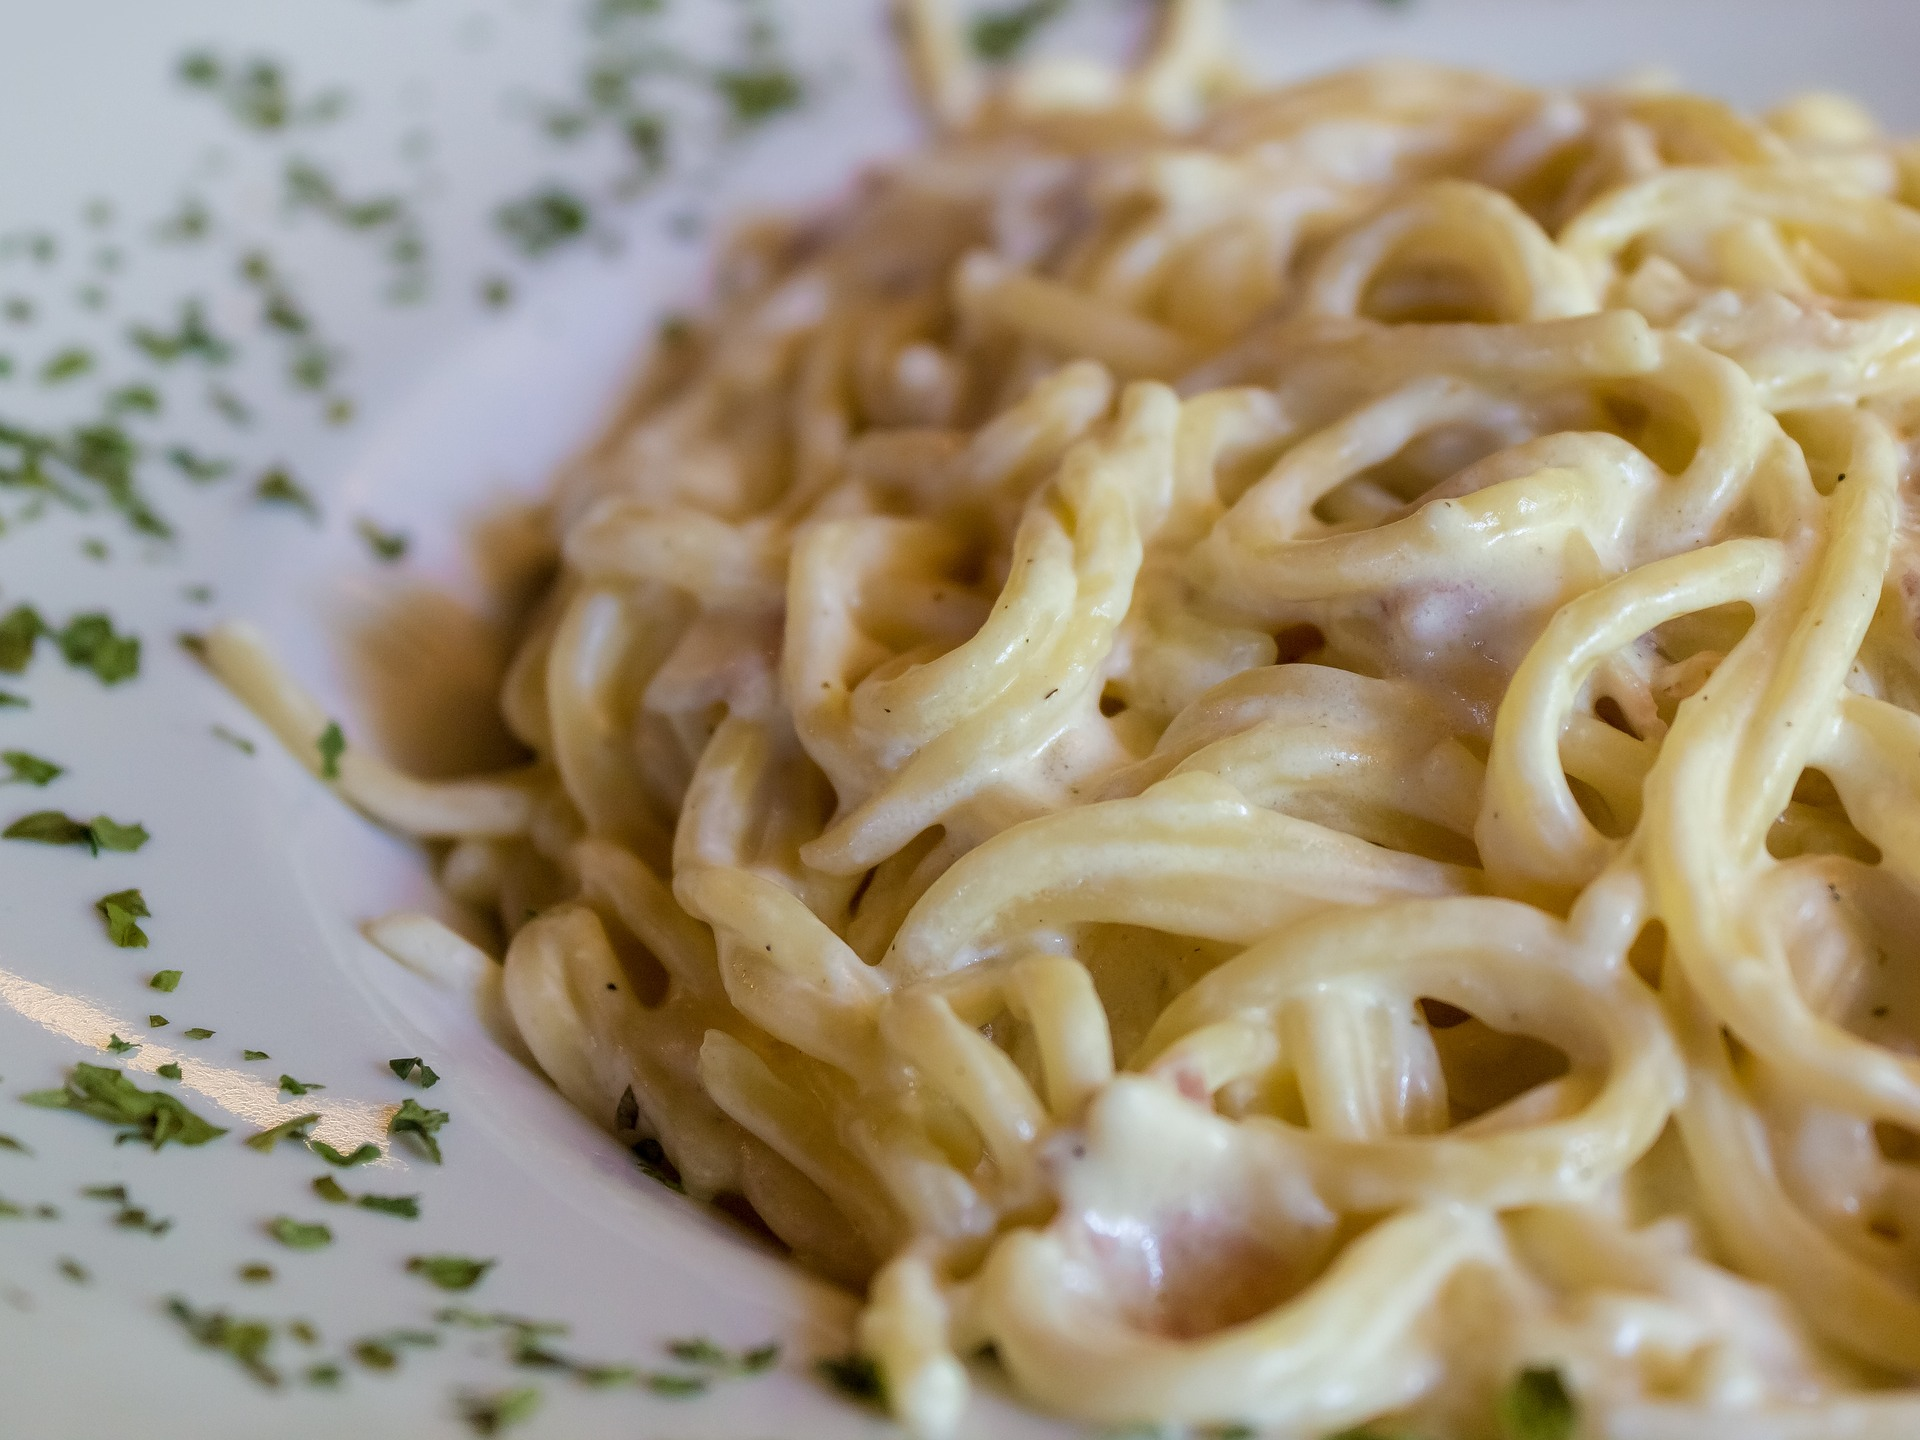
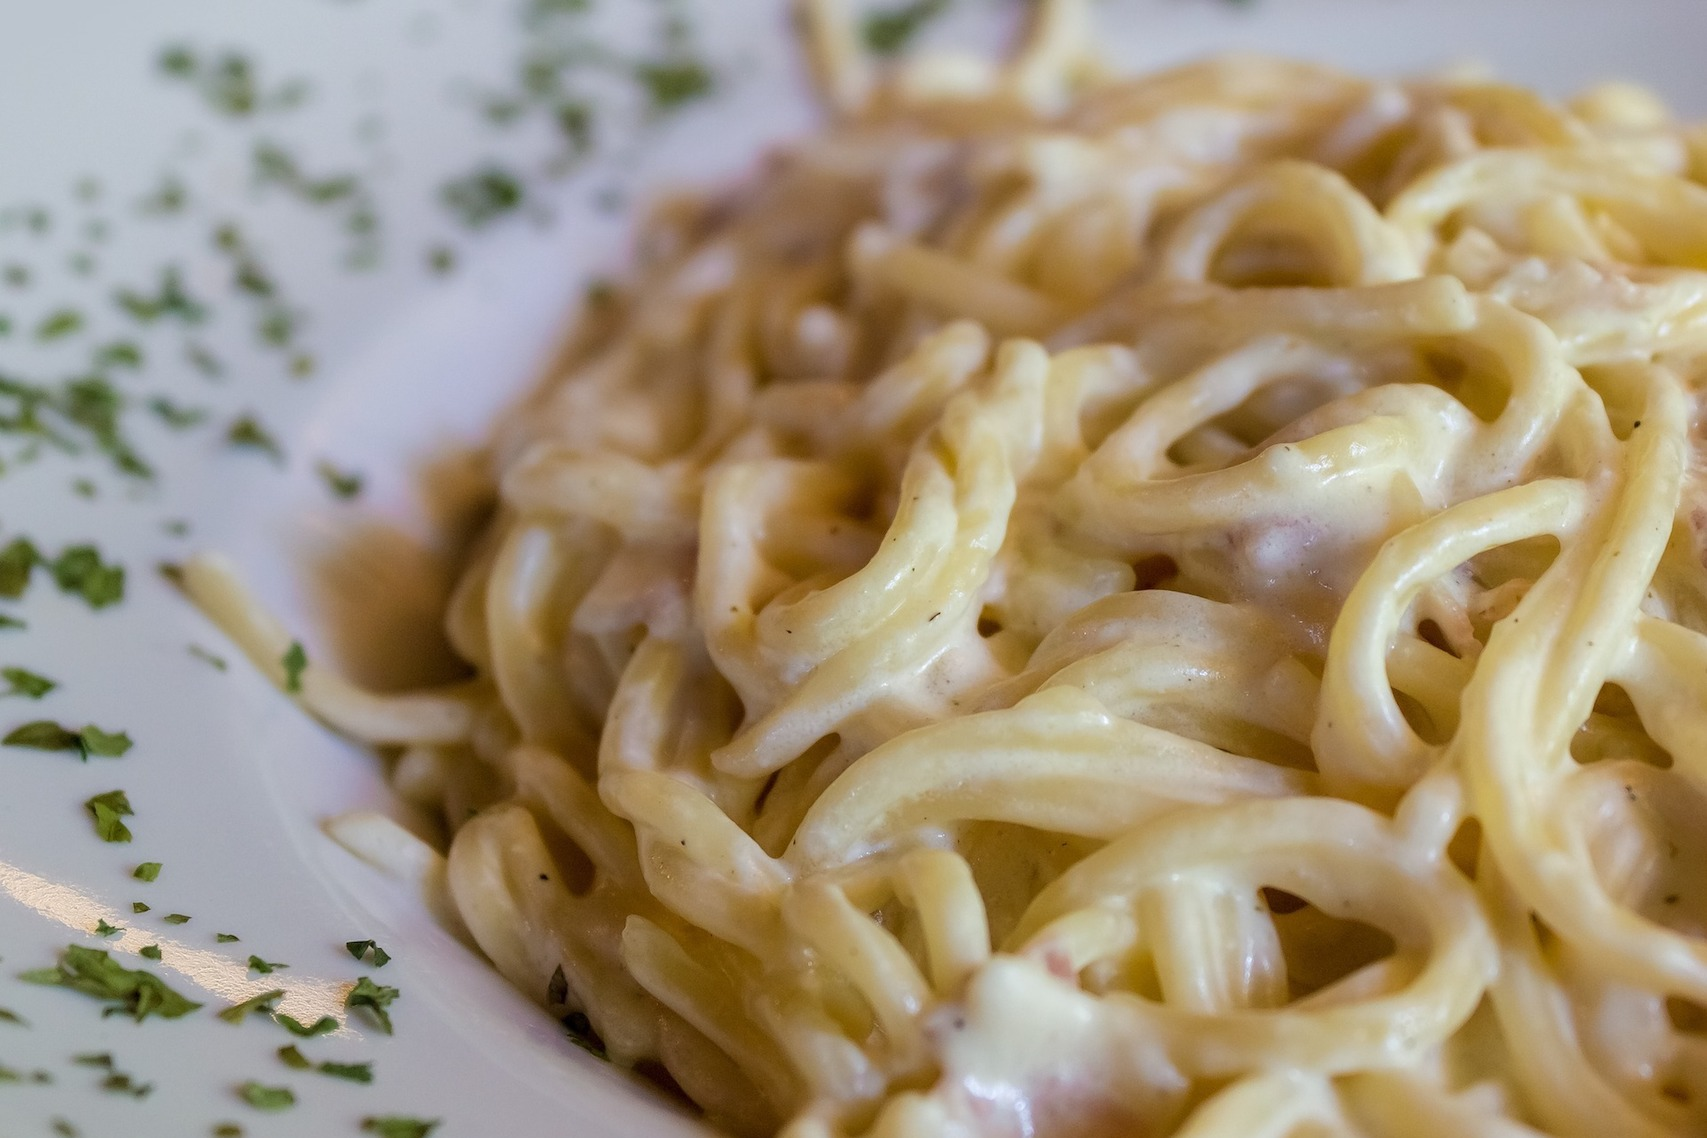
Fixed cropping of slider images

diff --git a/client/partials/home/home.html b/client/partials/home/home.html
@@ -5,7 +5,7 @@
       <li class="cookingTab"><a href="#/cooking">Cooking</a></li>
     </ul>
         <div class="row">
-            <div class="bs-example col-md-12">
+            <div class="bs-example col-xs-12">
                 <div id="myCarousel" class="carousel slide" data-ride="carousel">
                     <!-- Carousel indicators -->
                     <ol class="carousel-indicators">
@@ -27,9 +27,9 @@
                         <div class="item">
                             <img src="../images/noodles.jpg" alt="Second Slide">
                         </div>
-                        <div class="item">
+                        <!-- <div class="item">
                             <img src="../images/pancake.jpg" alt="Third Slide">
-                        </div>
+                        </div> -->
                         <div class="item">
                             <img src="../images/pasta.jpg" alt="Fourth Slide">
                         </div>

diff --git a/client/styles.css b/client/styles.css
@@ -125,7 +125,7 @@ h3{
   font-weight: bold;
 }
 .carousel{
-    background: #2f4357;
+/*    background: #2f4357;*/
    /* margin-top: 20px;*/
 }
 .carousel .item img{
@@ -138,7 +138,7 @@ h3{
   width: auto;
   height: 725px;
   max-height: 725px;
-  margin-top:-200px
+/*  margin-top:-200px*/
 }
 
 #recipe-image{
